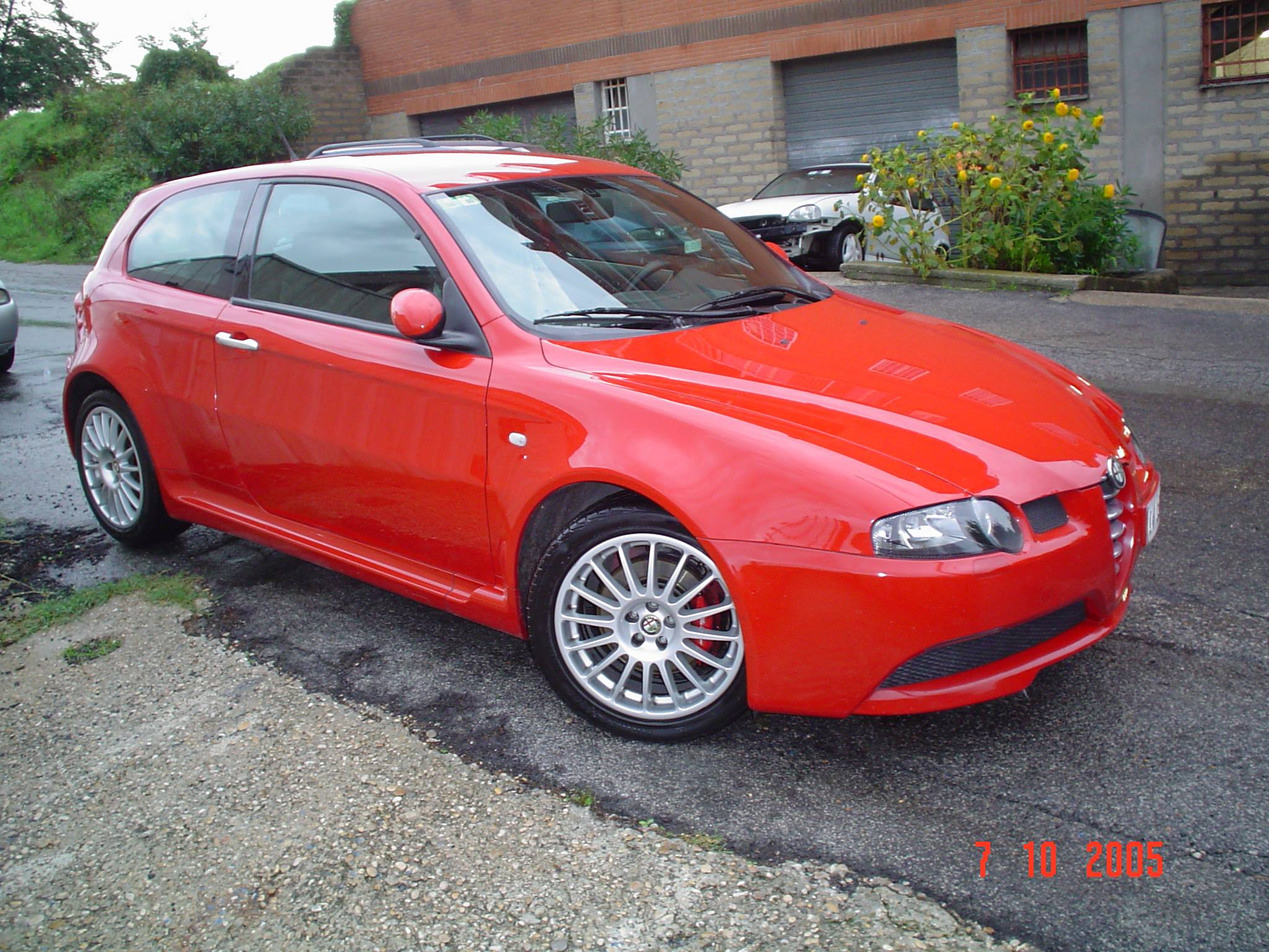
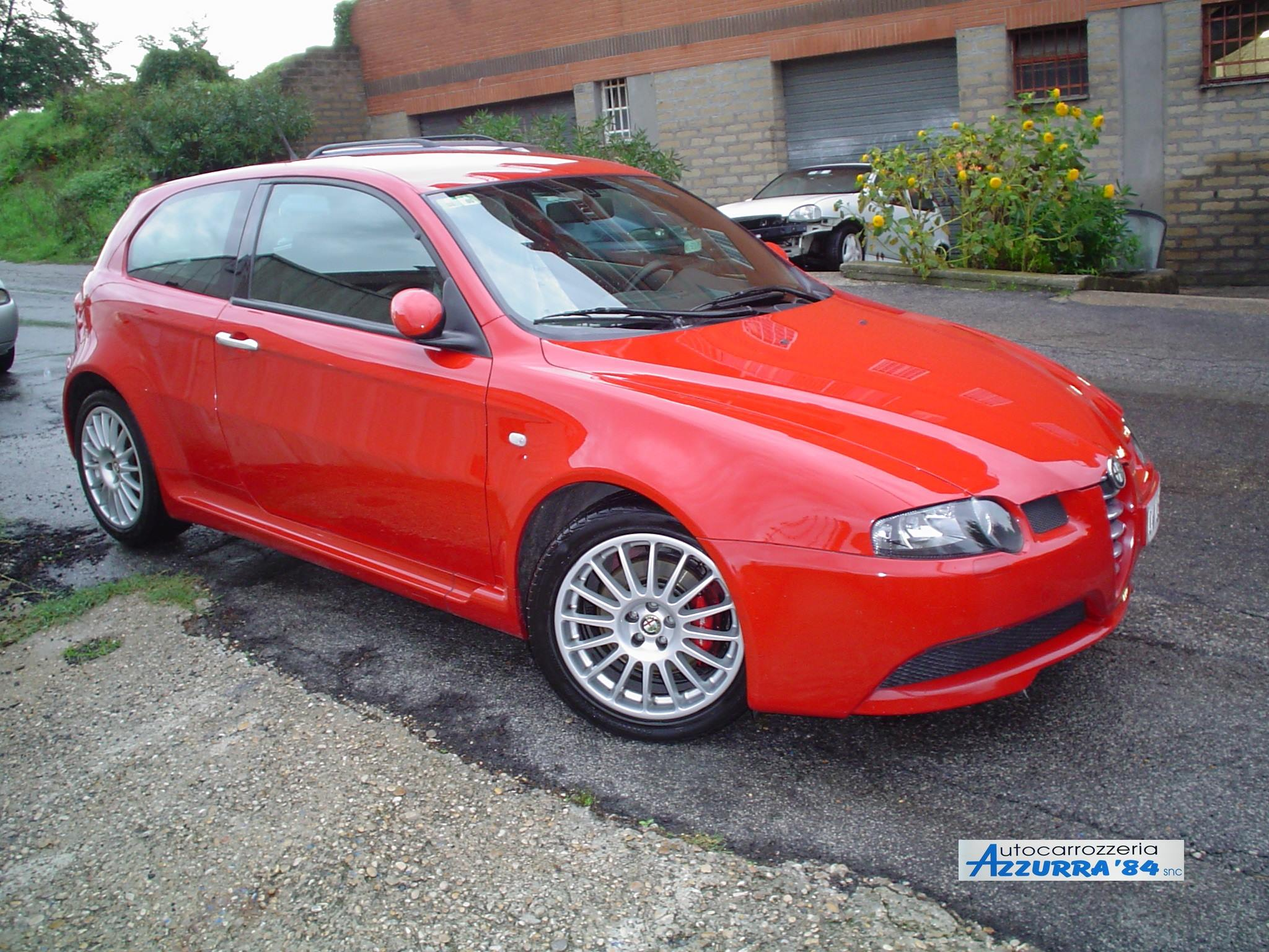
added portfolio pictures, initial pricing customization, about-us refactoring

Changed region(s): [[0.75, 0.875, 0.9375, 0.9375]]

diff --git a/index.html b/index.html
@@ -184,12 +184,6 @@
 				</div>
 			</div>
 			
-			<!--
-				<h2>Our Work</h2>
-				<hr class="sep">
-				<p>Showcase Your Amazing Work With Us</p>
-			-->
-			
 			<div class="container-fluid">
 				<div class="row">				
 					<div class="col-lg-4 col-sm-6 wow fadeInUp" data-wow-delay=".3s">
@@ -252,38 +246,81 @@
 							</div>
 						</a>
 					</div>
-					<!--
 					<div class="col-lg-4 col-sm-6 wow fadeInUp" data-wow-delay=".3s">
-						<a href="images/portfolio/5.jpg" class="portfolio-box" data-lightbox="image-5" data-title="Your caption">
+						<a href="images/portfolio/5.jpg" class="portfolio-box" data-lightbox="image-5">
 							<img src="images/portfolio/5.jpg" class="img-responsive" alt="5">
 							<div class="portfolio-box-caption">
 								<div class="portfolio-box-caption-content">
 									<div class="project-category text-faded">
-										Category
+										Azzurra 84
 									</div>
 									<div class="project-name">
-										Project Name
+										clicca per ingrandire
 									</div>
 								</div>
 							</div>
 						</a>
 					</div>
 					<div class="col-lg-4 col-sm-6 wow fadeInUp" data-wow-delay=".3s">
-						<a href="images/portfolio/6.jpg" class="portfolio-box" data-lightbox="image-6" data-title="Your caption">
+						<a href="images/portfolio/6.jpg" class="portfolio-box" data-lightbox="image-6">
 							<img src="images/portfolio/6.jpg" class="img-responsive" alt="6">
 							<div class="portfolio-box-caption">
 								<div class="portfolio-box-caption-content">
 									<div class="project-category text-faded">
-										Category
+										Azzurra 84
 									</div>
 									<div class="project-name">
-										Project Name
+										clicca per ingrandire
 									</div>
 								</div>
 							</div>
 						</a>
 					</div>
-					-->
+					<div class="col-lg-4 col-sm-6 wow fadeInUp" data-wow-delay=".3s">
+						<a href="images/portfolio/7.jpg" class="portfolio-box" data-lightbox="image-7">
+							<img src="images/portfolio/7.jpg" class="img-responsive" alt="7">
+							<div class="portfolio-box-caption">
+								<div class="portfolio-box-caption-content">
+									<div class="project-category text-faded">
+										Azzurra 84
+									</div>
+									<div class="project-name">
+										clicca per ingrandire
+									</div>
+								</div>
+							</div>
+						</a>
+					</div>
+					<div class="col-lg-4 col-sm-6 wow fadeInUp" data-wow-delay=".3s">
+						<a href="images/portfolio/8.jpg" class="portfolio-box" data-lightbox="image-8">
+							<img src="images/portfolio/8.jpg" class="img-responsive" alt="8">
+							<div class="portfolio-box-caption">
+								<div class="portfolio-box-caption-content">
+									<div class="project-category text-faded">
+										Azzurra 84
+									</div>
+									<div class="project-name">
+										clicca per ingrandire
+									</div>
+								</div>
+							</div>
+						</a>
+					</div>
+					<div class="col-lg-4 col-sm-6 wow fadeInUp" data-wow-delay=".3s">
+						<a href="images/portfolio/9.jpg" class="portfolio-box" data-lightbox="image-9">
+							<img src="images/portfolio/9.jpg" class="img-responsive" alt="9">
+							<div class="portfolio-box-caption">
+								<div class="portfolio-box-caption-content">
+									<div class="project-category text-faded">
+										Azzurra 84
+									</div>
+									<div class="project-name">
+										clicca per ingrandire
+									</div>
+								</div>
+							</div>
+						</a>
+					</div>
 				</div>
 			</div>
 		</section>
@@ -300,54 +337,52 @@
 						</div>
 					</div>
 
+					<p>Stampa uno dei seguenti coupon e portalo in officina per ususfruire della relativa offerta: </p>
+
 					<div class="col-sm-4">
 						<div class="st-pricing text-center">
-							<h5>Basic</h5>
-							<h3>$39</h3>
+							<h5>Lucidatura auto di segmento A,B,C</h5>
+							<h3>100€ + iva</h3>
 							<div class="st-border"></div>
 							<ul>
-								<li>Free Download</li>
-								<li>1000+ Softwear</li>
-								<li>Full Access</li>
-								<li>Free Update</li>
-								<li>Live Support</li>
+								<li>Lavaggio a mano carrozzeria</li>
+								<li>Aspirazione interni</li>
+								<li>Lucidatura a mano completa</li>
+								<li>Consegna in giornata</li>
 							</ul>
-							<a href="" class="btn btn-send">Sign Up</a>
+							<a href="pdf/lucidatura_abc.pdf" download="" class="btn btn-send">Scarica il Coupon!</a>
 						</div>
 					</div>
 
 					<div class="col-sm-4">
 						<div class="st-pricing text-center">
-							<h5>Silver</h5>
-							<h3>$89</h3>
+							<h5>Lucidatura auto di segmento D,E,F</h5>
+							<h3>180€ + iva</h3>
 							<div class="st-border"></div>
 							<ul>
-								<li>Free Download</li>
-								<li>1000+ Softwear</li>
-								<li>Full Access</li>
-								<li>Free Update</li>
-								<li>Live Support</li>
+								<li>Lavaggio a mano carrozzeria</li>
+								<li>Aspirazione interni</li>
+								<li>Lucidatura a mano completa</li>
+								<li>Consegna in giornata</li>
 							</ul>
-							<a href="" class="btn btn-send">Sign Up</a>
+							<a href="pdf/lucidatura_def.pdf" download="" class="btn btn-send">Scarica il Coupon!</a>
 						</div>
 					</div>
 
 					<div class="col-sm-4">
 						<div class="st-pricing text-center">
-							<h5>Gold</h5>
-							<h3>$209</h3>
+							<h5>Tagliando completo auto gruppo Fiat</h5>
+							<h3>150€ + iva</h3>
 							<div class="st-border"></div>
 							<ul>
-								<li>Free Download</li>
-								<li>1000+ Softwear</li>
-								<li>Full Access</li>
-								<li>Free Update</li>
-								<li>Live Support</li>
+								<li>Cambio Olio</li>
+								<li>Cambio Filtro abitacolo</li>
+								<li>Cambio Filtro Aria</li>
+								<li>Consegna in giornata</li>
 							</ul>
-							<a href="" class="btn btn-send">Sign Up</a>
+							<a href="pdf/tagliando.pdf" download="" class="btn btn-send">Scarica il Coupon!</a>
 						</div>
-					</div>
-					
+					</div>					
 				</div>
 			</div>
 		</section>
@@ -358,13 +393,13 @@
 			<div class="container-fluid">
 				<div class="row">					
 					<div class="col-sm-6">						
-						<div class="section-title col-md-5 col-md-offset-4">
+						<div class="section-title col-md-11 col-md-offset-1">
 							<h1>La Nostra Storia</h1>
 							<span class="st-border"></span>
 						</div>						
 					
-						<div class="about-us text-center">
-							<p>Lorem ipsum dolor sit amet, consectetur adipisicing elit. Earum aliquid obcaecati deleniti minus quisquam quis magnam reprehenderit quaerat molestias rerum, excepturi autem fugiat corporis quidem a ipsum quos beatae! Ut!</p>
+						<div class="about-us">
+							<p>L'Azzurra 84 opera nel settore automobilistico dal 1984, potete contare sulla nostra esperienza ultra trentennale, cercheremo di soddisfare ogni vostra esigenza con massima serietà e disponibilità.</p>
 						</div>
 					</div>
 					<div class="col-sm-6 our-office">

diff --git a/css/style.css b/css/style.css
@@ -526,14 +526,8 @@
 	}
 
 	#about-us .about-us{
-		padding-left: 15%;
-		padding-right: 15%;
-		padding-top: 15%;
-	}
-
-	#about-us .about-us h4{
-		margin-top: 0;
-		margin-bottom: 30px;
+		padding-left: 10%;
+		padding-right: 10%;
 	}
 
 	#about-us .our-office{
